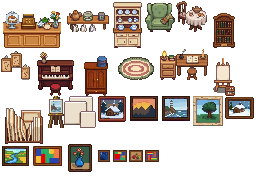
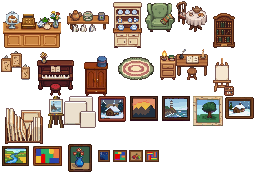
Gilded Vale: the guest room's easel without its baked-in grey shadow

Changed region(s): [[0.8125, 0.3125, 0.9375, 0.5398]]

diff --git a/tools/build_vale_interiors.py b/tools/build_vale_interiors.py
@@ -43,7 +43,7 @@ PICKS = {"tea_counter": "tea_counter_1_1", "teapot_shelf": "teapot_shelf_1_1", "
          # the guest room (2026-11-07: "very boring" with the tea room's chair and table)
          "wardrobe": "../vale_house_v2/wardrobe_2_0",
          "rug": "../vale_house_v2/rug_2_1", "nightstand": "../vale_house_v2/nightstand_1_0",
-         "writing_desk": "../vale_house_v2/writing_desk_2_1", "easel": "../vale_house_v2/easel_2_2"}
+         "writing_desk": "../vale_house_v2/writing_desk_2_1", "easel": "../vale_house_v2/easel_2_2_clean"}
 WALLPAPERS = ["wallpaper_1_2"]
 VALE = "blinxxy.MuseArt_GildedVale"
 INN_DOOR = (28, 19)                  # the inn's door on the Vale map (build_vale.py vale_house)
